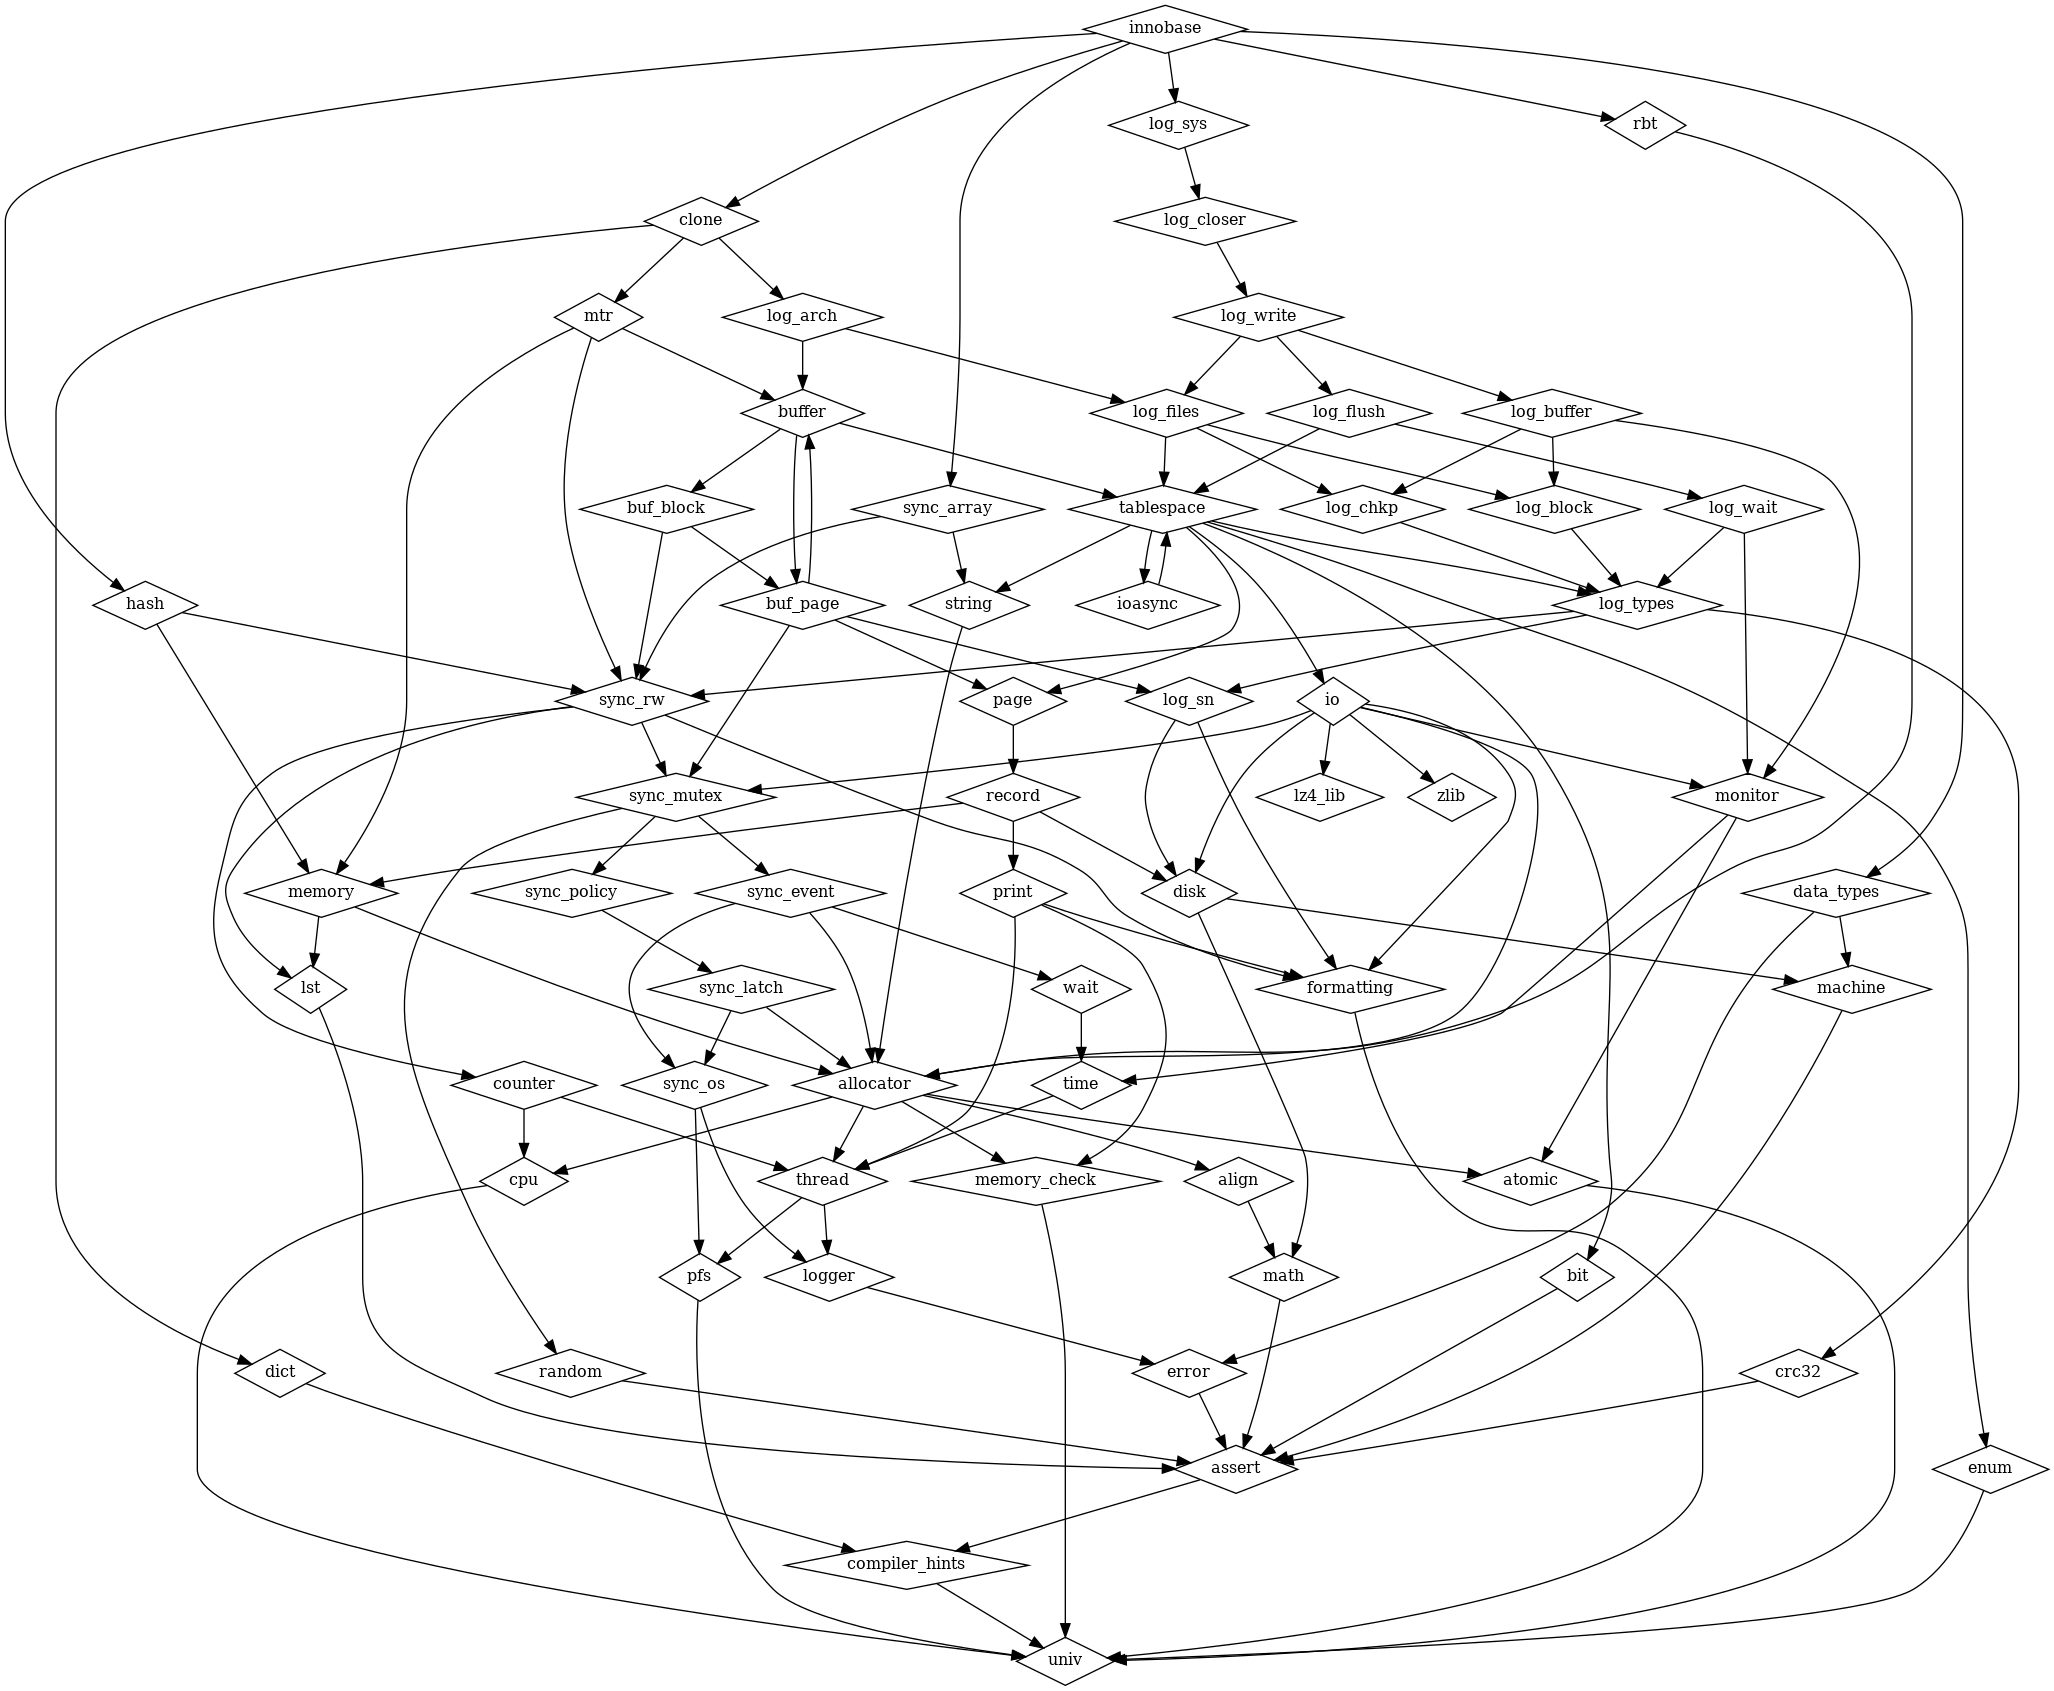
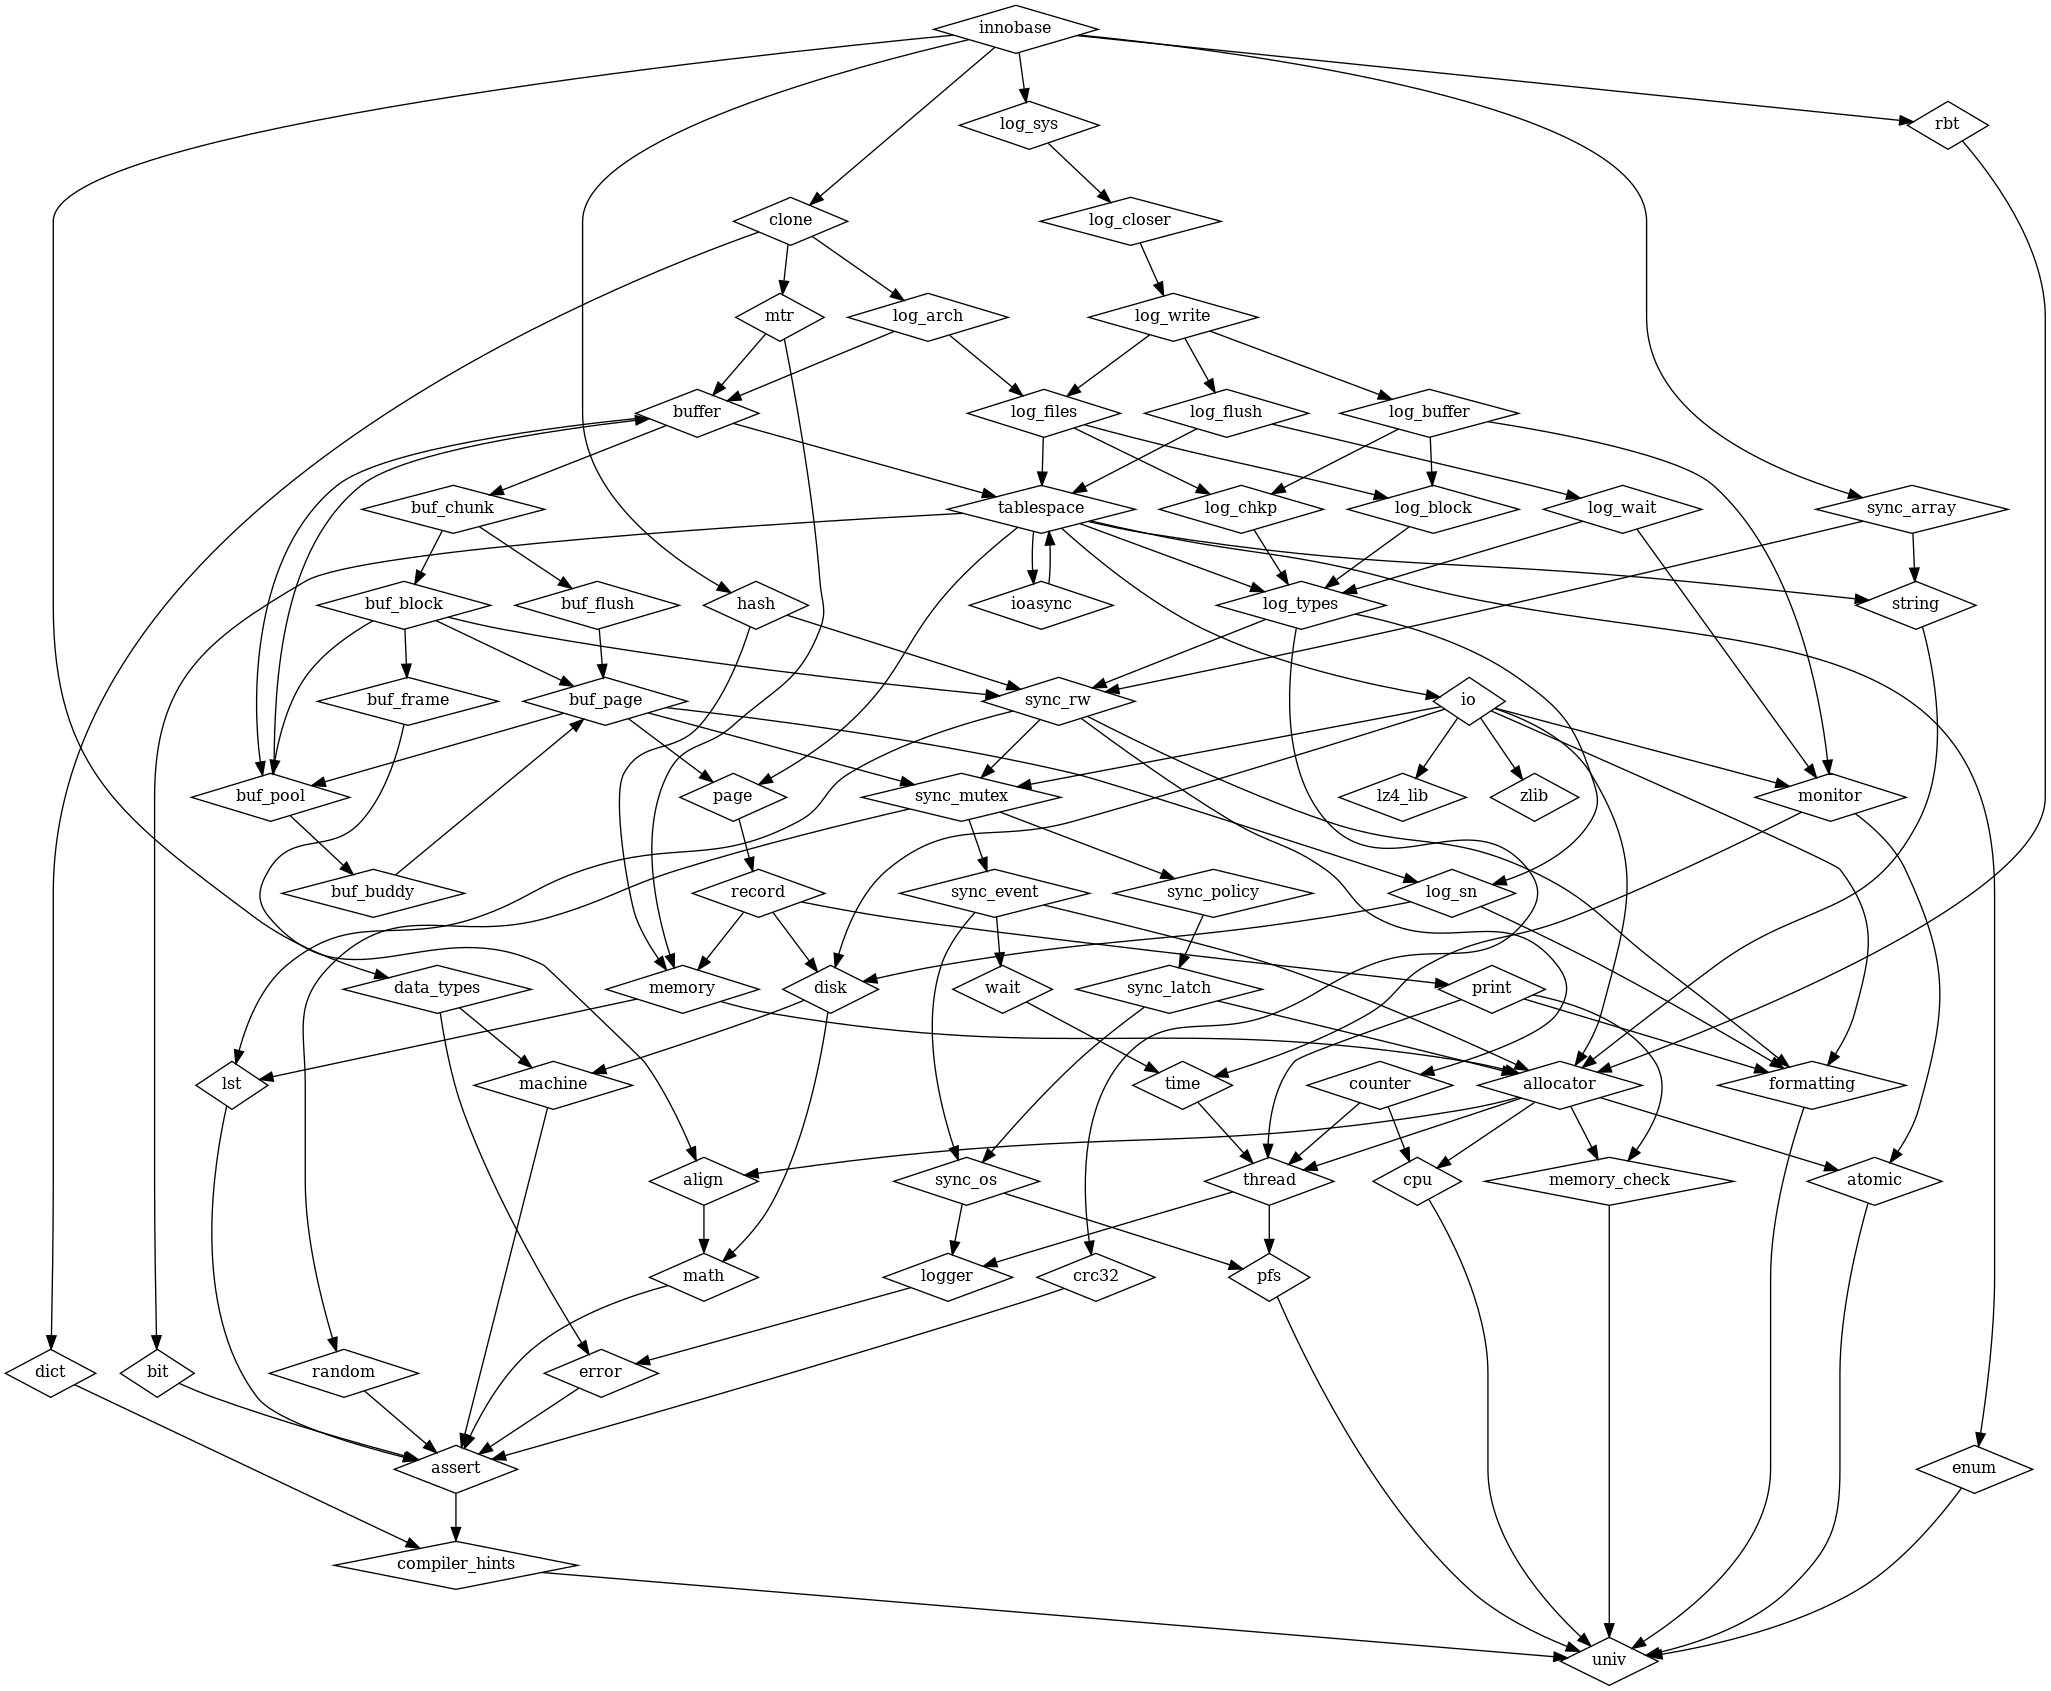
Create buf_flush library

diff --git a/storage/innobase/buf/buf0buf.cc b/storage/innobase/buf/buf0buf.cc
@@ -75,8 +75,8 @@ this program; if not, write to the Free Software Foundation, Inc.,
 #include <innodb/sync_rw/rw_lock_sx_unlock_gen.h>
 #include <innodb/print/ut_print_buf.h>
 #include <innodb/print/ut_sprintf_timestamp.h>
-#include <innodb/buffer/buf_flush_list_mutex_enter.h>
-#include <innodb/buffer/buf_flush_list_mutex_exit.h>
+#include <innodb/buf_flush/buf_flush_list_mutex_enter.h>
+#include <innodb/buf_flush/buf_flush_list_mutex_exit.h>
 #include <innodb/buf_block/buf_block_set_io_fix.h>
 #include <innodb/buf_pool/buf_pool_from_array.h>
 #include <innodb/buf_pool/buf_pool_size_align.h>

diff --git a/storage/innobase/buf/buf0flu.cc b/storage/innobase/buf/buf0flu.cc
@@ -49,8 +49,8 @@ this program; if not, write to the Free Software Foundation, Inc.,
 #include <innodb/sync_rw/rw_lock_sx_lock_nowait.h>
 #include <innodb/sync_rw/rw_lock_sx_lock_gen.h>
 #include <innodb/print/ut_print_buf.h>
-#include <innodb/buffer/buf_flush_list_mutex_enter.h>
-#include <innodb/buffer/buf_flush_list_mutex_exit.h>
+#include <innodb/buf_flush/buf_flush_list_mutex_enter.h>
+#include <innodb/buf_flush/buf_flush_list_mutex_exit.h>
 #include <innodb/buf_pool/buf_pool_from_array.h>
 #include <innodb/buf_pool/buf_pool_get.h>
 #include <innodb/buffer/buf_get_withdraw_depth.h>

diff --git a/storage/innobase/buf/buf0lru.cc b/storage/innobase/buf/buf0lru.cc
@@ -36,8 +36,8 @@ this program; if not, write to the Free Software Foundation, Inc.,
 #include <innodb/logger/info.h>
 #include <innodb/logger/warn.h>
 #include <innodb/print/ut_print_buf.h>
-#include <innodb/buffer/buf_flush_list_mutex_enter.h>
-#include <innodb/buffer/buf_flush_list_mutex_exit.h>
+#include <innodb/buf_flush/buf_flush_list_mutex_enter.h>
+#include <innodb/buf_flush/buf_flush_list_mutex_exit.h>
 #include <innodb/buf_page/buf_page_set_sticky.h>
 #include <innodb/buf_pool/buf_pool_from_array.h>
 #include <innodb/buffer/buf_get_withdraw_depth.h>

diff --git a/storage/innobase/libs/log_arch/src/Arch_Page_Sys.cpp b/storage/innobase/libs/log_arch/src/Arch_Page_Sys.cpp
@@ -16,8 +16,8 @@
 #include <innodb/buf_pool/buf_pool_t.h>
 #include <innodb/buf_pool/srv_buf_pool_instances.h>
 #include <innodb/buf_pool/buf_pool_from_array.h>
-#include <innodb/buffer/buf_flush_list_mutex_enter.h>
-#include <innodb/buffer/buf_flush_list_mutex_exit.h>
+#include <innodb/buf_flush/buf_flush_list_mutex_enter.h>
+#include <innodb/buf_flush/buf_flush_list_mutex_exit.h>
 #include <innodb/tablespace/fsp_is_system_temporary.h>
 // #include <innodb/log_buffer/log_buffer_flush_order_lag.h>
 #include <innodb/buf_page/buf_page_get_io_fix_unlocked.h>

diff --git a/storage/innobase/libs/buf_pool/src/buf_pool_get_oldest_modification_approx.cpp b/storage/innobase/libs/buf_pool/src/buf_pool_get_oldest_modification_approx.cpp
@@ -3,8 +3,8 @@
 #include <innodb/buf_pool/srv_buf_pool_instances.h>
 #include <innodb/buf_pool/buf_pool_t.h>
 #include <innodb/buf_pool/buf_pool_from_array.h>
-#include <innodb/buffer/buf_flush_list_mutex_enter.h>
-#include <innodb/buffer/buf_flush_list_mutex_exit.h>
+#include <innodb/buf_flush/buf_flush_list_mutex_enter.h>
+#include <innodb/buf_flush/buf_flush_list_mutex_exit.h>
 #include <innodb/tablespace/fsp_is_system_temporary.h>
 
 lsn_t buf_pool_get_oldest_modification_approx(void) {

diff --git a/storage/innobase/libs/buf_chunk/src/buf_chunk_not_freed.cpp b/storage/innobase/libs/buf_chunk/src/buf_chunk_not_freed.cpp
@@ -3,7 +3,7 @@
 #include <innodb/buf_block/buf_block_t.h>
 #include <innodb/buf_chunk/buf_chunk_t.h>
 #include <innodb/buf_block/buf_block_get_state.h>
-#include <innodb/buffer/buf_flush_ready_for_replace.h>
+#include <innodb/buf_flush/buf_flush_ready_for_replace.h>
 #include <innodb/buf_page/buf_page_mutex_enter.h>
 #include <innodb/buf_page/buf_page_mutex_exit.h>
 #include <innodb/error/ut_error.h>

diff --git a/storage/innobase/libs/buf_pool/src/buf_pool_t.cpp b/storage/innobase/libs/buf_pool/src/buf_pool_t.cpp
@@ -1,7 +1,7 @@
 #include <innodb/buf_pool/buf_pool_t.h>
 
 #include <innodb/sync_mutex/mutex_own.h>
-#include <innodb/buffer/buf_flush_list_mutex_own.h>
+#include <innodb/buf_flush/buf_flush_list_mutex_own.h>
 #include <innodb/buffer/innobase_disable_core_dump.h>
 #include <innodb/buf_chunk/buf_chunk_t.h>
 #include <innodb/buf_pool/buf_pool_should_madvise.h>

diff --git a/storage/innobase/libs/buf_flush/src/buf_flush_ready_for_replace.cpp b/storage/innobase/libs/buf_flush/src/buf_flush_ready_for_replace.cpp
@@ -1,4 +1,4 @@
-#include <innodb/buffer/buf_flush_ready_for_replace.h>
+#include <innodb/buf_flush/buf_flush_ready_for_replace.h>
 
 #include <innodb/buf_page/buf_page_t.h>
 #include <innodb/buf_page/buf_page_get_mutex.h>

diff --git a/storage/innobase/libs/buf_flush/tests/main.cpp b/storage/innobase/libs/buf_flush/tests/main.cpp
@@ -1,0 +1,9 @@
+#include <gtest/gtest.h>
+
+int main( int argc, char **argv ) 
+{
+    ::testing::InitGoogleTest(&argc, argv);
+    return RUN_ALL_TESTS();
+}
+
+

diff --git a/storage/innobase/libs/buf_flush/tests/base.cpp b/storage/innobase/libs/buf_flush/tests/base.cpp
@@ -1,0 +1,12 @@
+#include <gtest/gtest.h>
+// #include <innodb/buf_flush/buf_flush.h>
+
+
+//
+//
+TEST( buf_flush, constructor )
+{
+
+}
+
+

diff --git a/storage/innobase/libs/buf_flush/src/buf_flush_list_mutex_enter.cpp b/storage/innobase/libs/buf_flush/src/buf_flush_list_mutex_enter.cpp
@@ -1,0 +1,1 @@
+#include <innodb/buf_flush/buf_flush_list_mutex_enter.h>

diff --git a/storage/innobase/libs/buf_flush/src/buf_flush_list_mutex_exit.cpp b/storage/innobase/libs/buf_flush/src/buf_flush_list_mutex_exit.cpp
@@ -1,0 +1,1 @@
+#include <innodb/buf_flush/buf_flush_list_mutex_exit.h>
